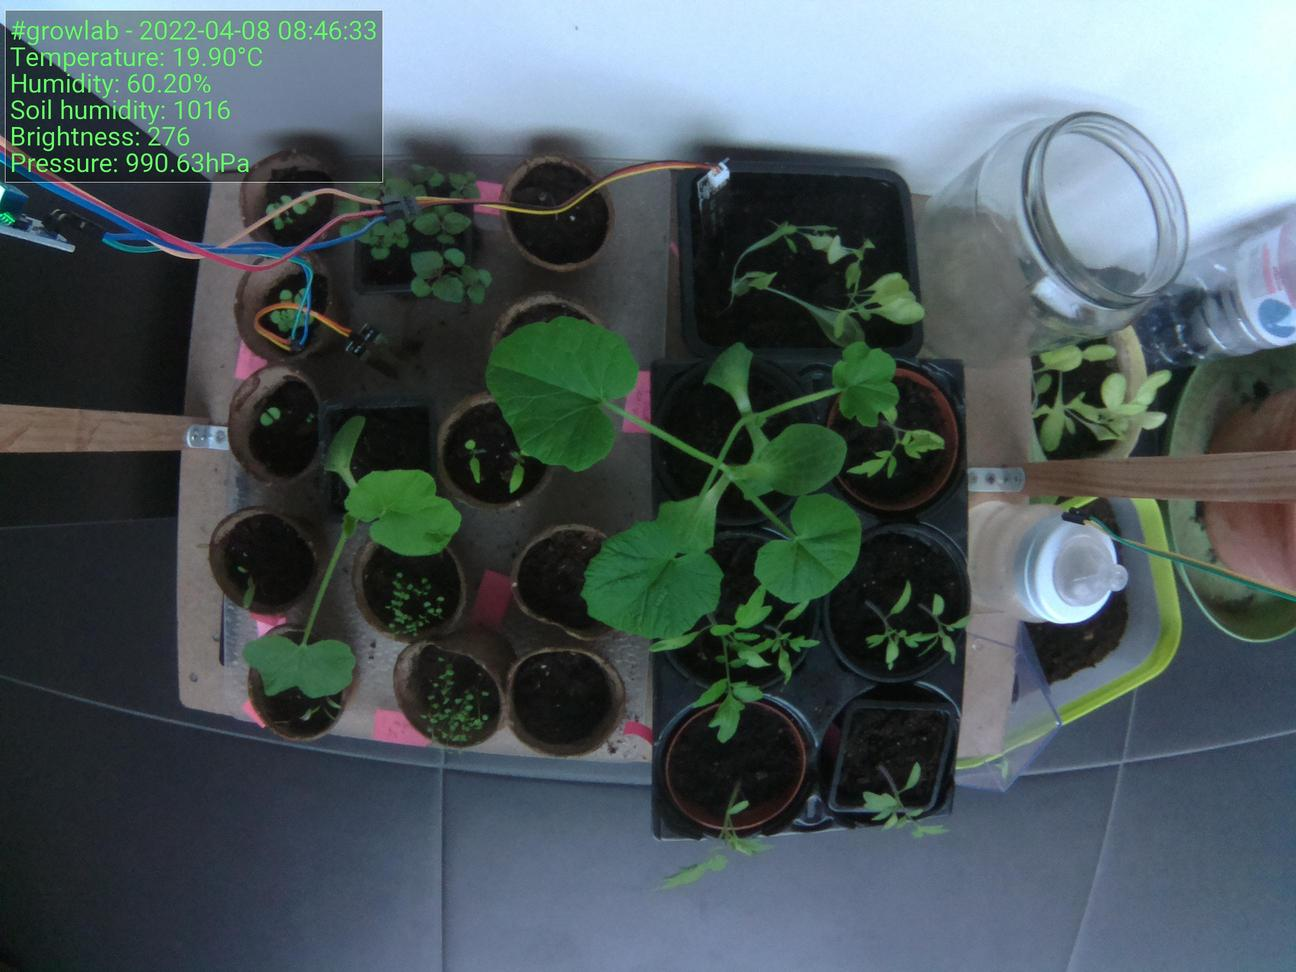
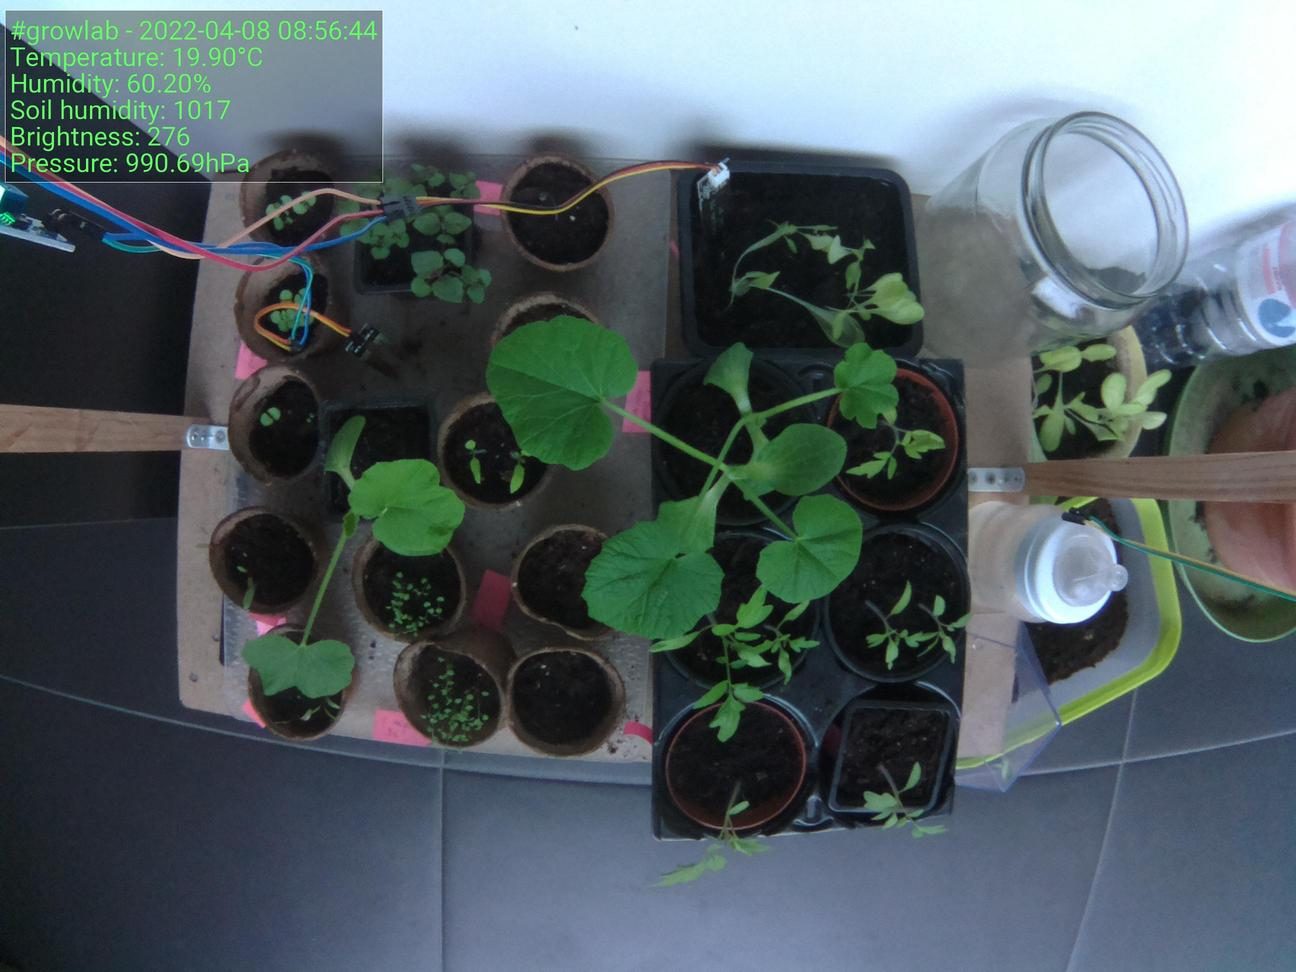
:bento: Update preview

diff --git a/index.html b/index.html
@@ -39,7 +39,7 @@
                     <tbody>
                         <tr>
                             <td>Time</td>
-                            <td>2022-04-08 08:46:33</td>
+                            <td>2022-04-08 08:56:44</td>
                         </tr>
                         <tr>
                             <td>Temperature</td>
@@ -55,7 +55,7 @@
 
                 <h5>Latest image</h5>
 		<div style="width: 85%;">
-	                <img class="figure-img img-fluid rounded" src="./preview.jpg?uid=1649400400.358382">
+	                <img class="figure-img img-fluid rounded" src="./preview.jpg?uid=1649401011.8354638">
 		</div>
             </div>
         </div>
